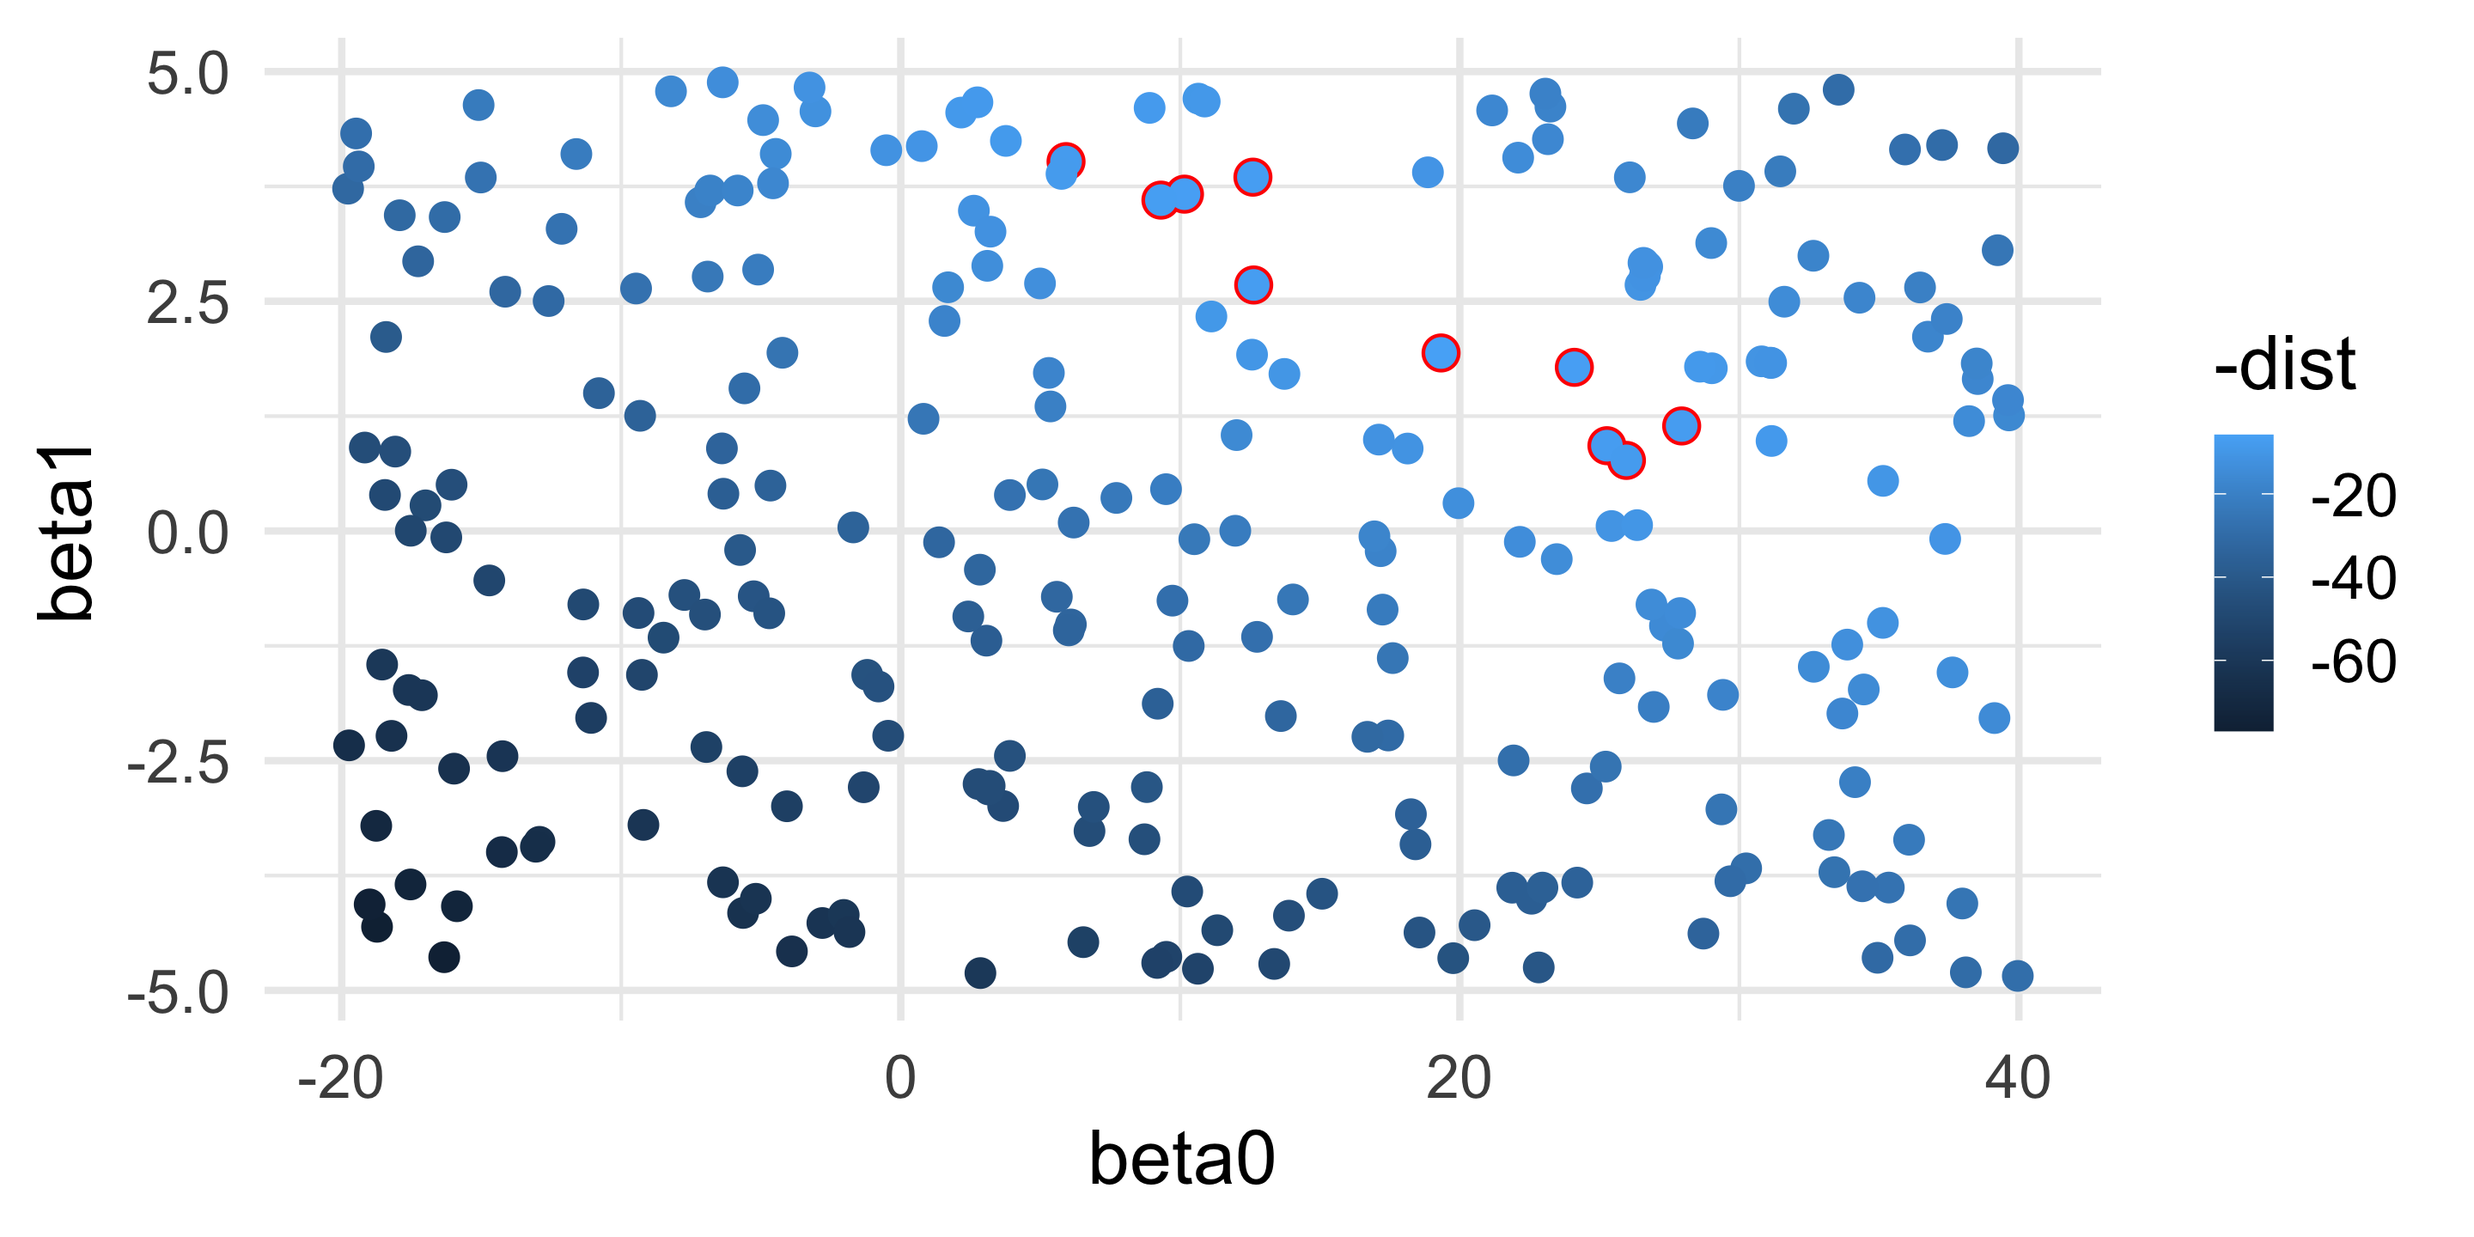
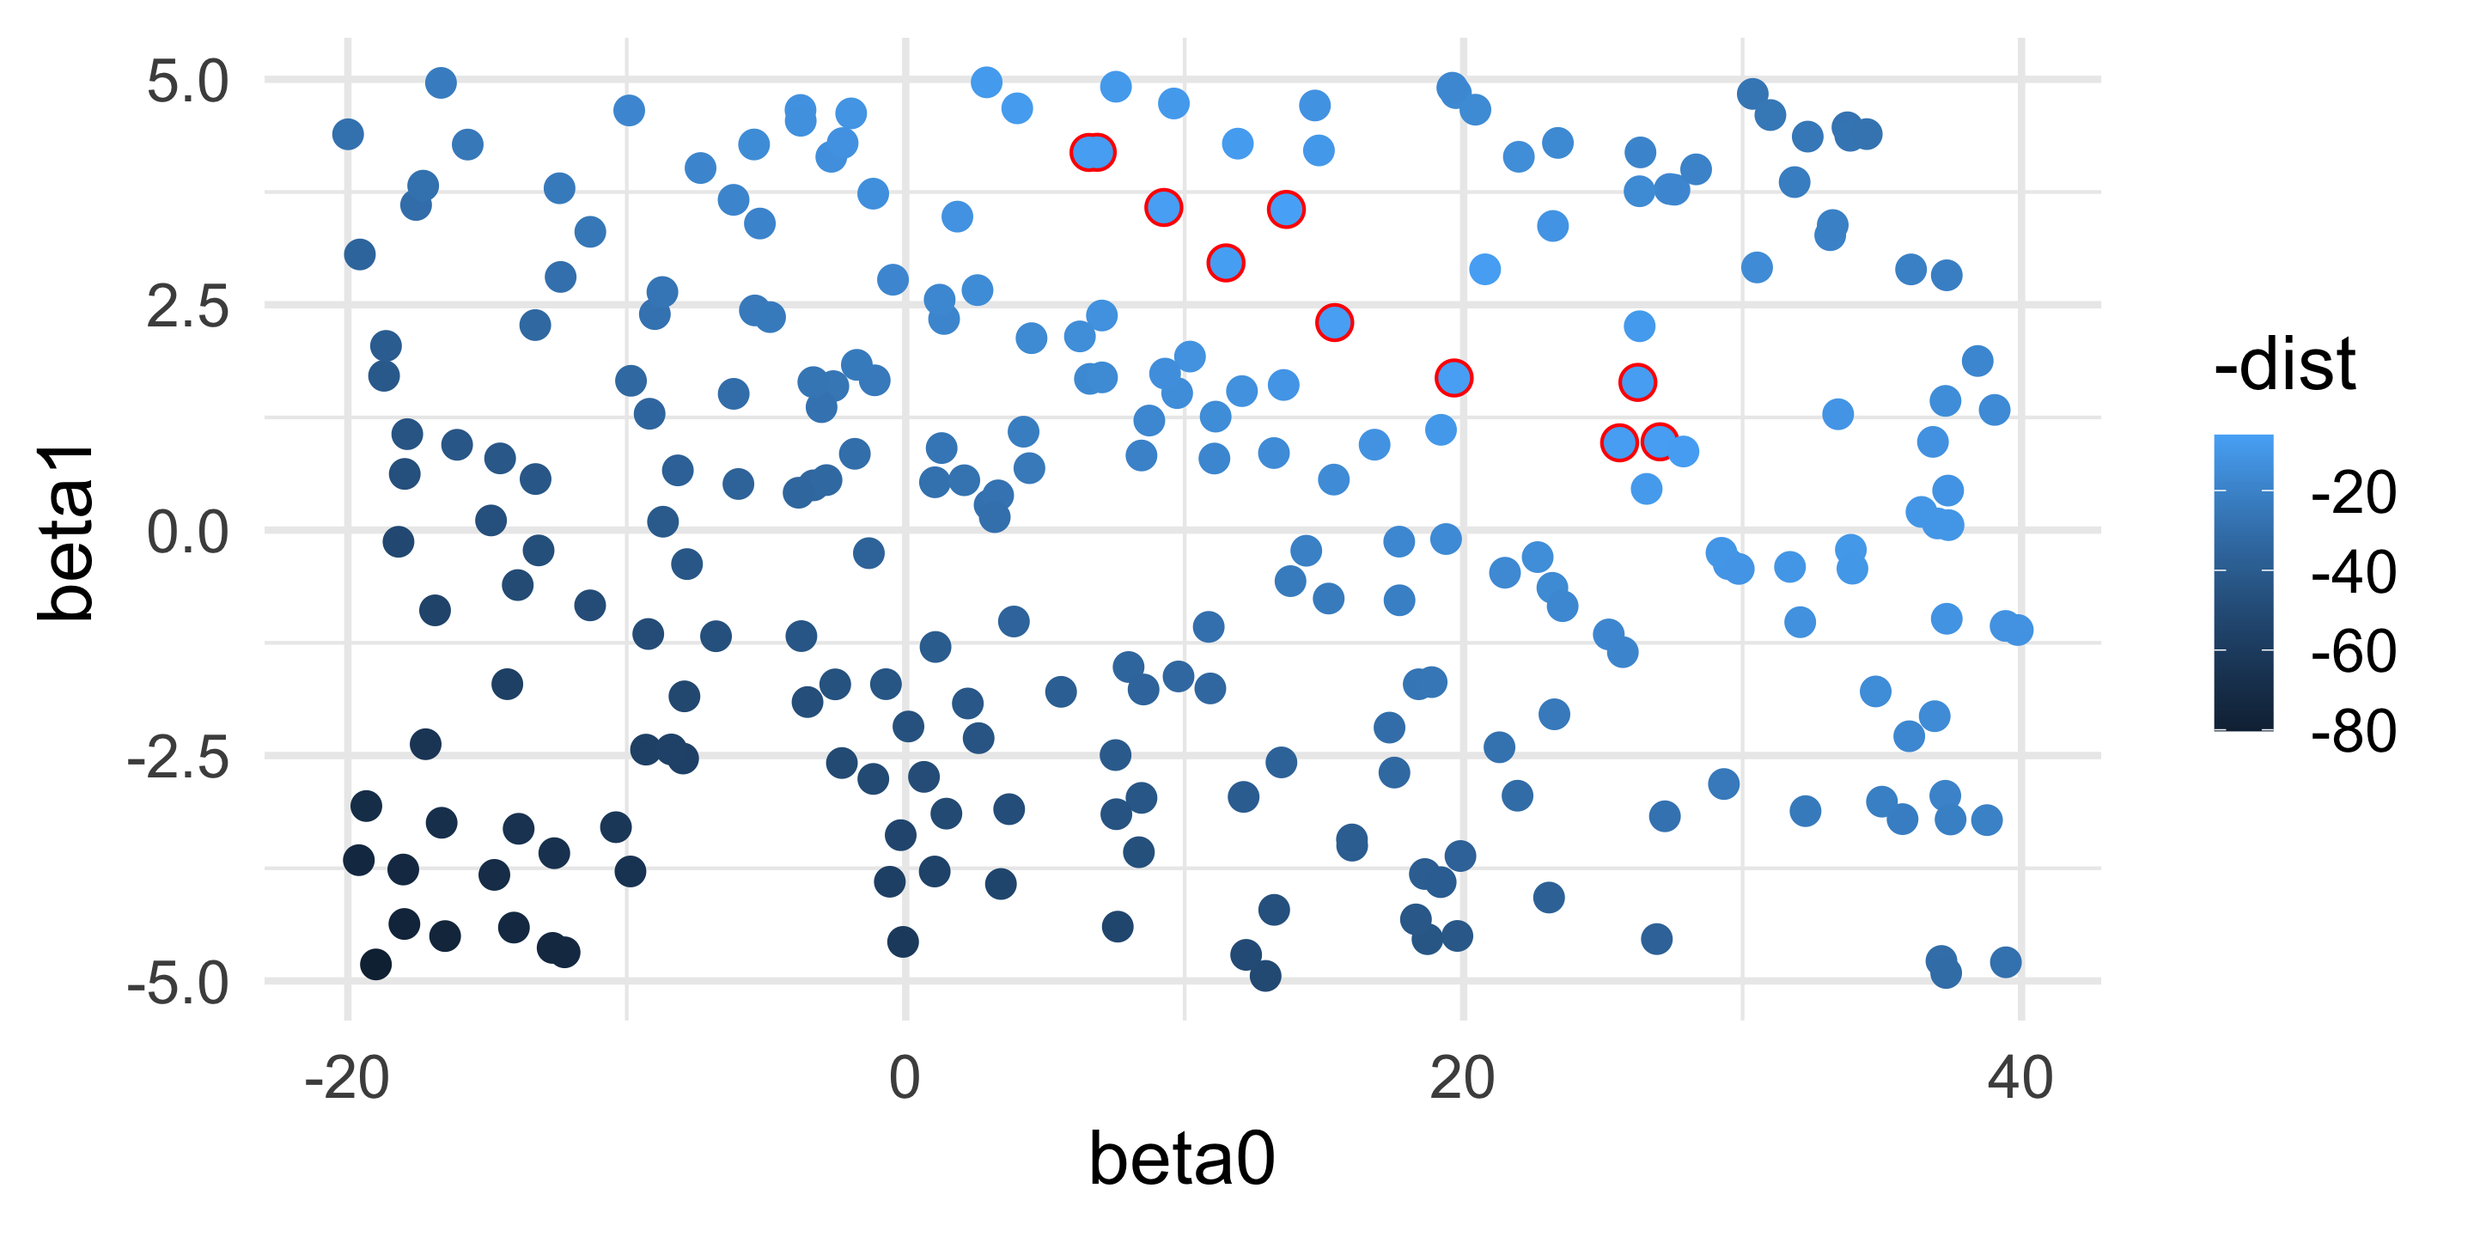
built for latest content

diff --git a/docs/slides.html b/docs/slides.html
@@ -241,13 +241,13 @@ y = \beta_0 + \beta_1 x_1 + \epsilon
 <span id="cb1-2"><a href=""></a>                      <span class="at">beta1 =</span> <span class="fu">runif</span>(<span class="dv">250</span>, <span class="sc">-</span><span class="dv">5</span>, <span class="dv">5</span>))</span>
 <span id="cb1-3"><a href=""></a><span class="fu">summary</span>( models )</span></code></pre></div><button title="Copy to Clipboard" class="code-copy-button"><i class="bi"></i></button></div>
 <div class="cell-output cell-output-stdout">
-<pre><code>     beta0             beta1         
- Min.   :-19.773   Min.   :-4.84231  
- 1st Qu.: -5.510   1st Qu.:-2.70423  
- Median :  9.249   Median :-0.08802  
- Mean   :  9.821   Mean   :-0.04163  
- 3rd Qu.: 26.276   3rd Qu.: 2.65174  
- Max.   : 39.960   Max.   : 4.88266  </code></pre>
+<pre><code>     beta0             beta1        
+ Min.   :-19.990   Min.   :-4.9443  
+ 1st Qu.: -3.823   1st Qu.:-2.3577  
+ Median :  8.173   Median : 0.3323  
+ Mean   :  9.132   Mean   : 0.1509  
+ 3rd Qu.: 23.197   3rd Qu.: 2.3919  
+ Max.   : 39.864   Max.   : 4.9665  </code></pre>
 </div>
 </div>
 </div><div class="column" style="width:50%;">
@@ -290,13 +290,13 @@ y = \beta_0 + \beta_1 x_1 + \epsilon
 <span id="cb4-7"><a href=""></a>}</span>
 <span id="cb4-8"><a href=""></a><span class="fu">head</span>( models )</span></code></pre></div><button title="Copy to Clipboard" class="code-copy-button"><i class="bi"></i></button></div>
 <div class="cell-output cell-output-stdout">
-<pre><code>       beta0     beta1      dist
-1  31.463680  3.913979 22.216943
-2  15.073163 -3.948088 43.076025
-3 -15.879758 -4.084086 72.853091
-4  10.648004  4.705156  9.286655
-5  -2.806101 -4.266595 61.501641
-6 -18.554233 -1.453793 59.666942</code></pre>
+<pre><code>      beta0      beta1      dist
+1 27.386682  3.7837410 17.607575
+2 32.334794  4.3645855 25.662348
+3  4.224087  1.0914296 22.557119
+4 17.700911 -0.7781071 21.397892
+5 -2.527105 -1.7106264 45.698780
+6 26.560598  0.4573602  8.557383</code></pre>
 </div>
 </div>
 </section>
@@ -917,35 +917,35 @@ y = \beta_0 + \beta_1 x_1 + \epsilon
 <tbody>
 <tr class="odd">
 <td style="text-align: left;">Ozone ~ Temp + Wind + Solar + 1 Random Variables</td>
-<td style="text-align: left;">0.6151</td>
+<td style="text-align: left;">0.6060</td>
 </tr>
 <tr class="even">
 <td style="text-align: left;">Ozone ~ Temp + Wind + Solar + 2 Random Variables</td>
-<td style="text-align: left;">0.6165</td>
+<td style="text-align: left;">0.6125</td>
 </tr>
 <tr class="odd">
 <td style="text-align: left;">Ozone ~ Temp + Wind + Solar + 3 Random Variables</td>
-<td style="text-align: left;">0.6192</td>
+<td style="text-align: left;">0.6140</td>
 </tr>
 <tr class="even">
 <td style="text-align: left;">Ozone ~ Temp + Wind + Solar + 4 Random Variables</td>
-<td style="text-align: left;">0.6267</td>
+<td style="text-align: left;">0.6143</td>
 </tr>
 <tr class="odd">
 <td style="text-align: left;">Ozone ~ Temp + Wind + Solar + 5 Random Variables</td>
-<td style="text-align: left;">0.6302</td>
+<td style="text-align: left;">0.6145</td>
 </tr>
 <tr class="even">
 <td style="text-align: left;">Ozone ~ Temp + Wind + Solar + 6 Random Variables</td>
-<td style="text-align: left;">0.6357</td>
+<td style="text-align: left;">0.6182</td>
 </tr>
 <tr class="odd">
 <td style="text-align: left;">Ozone ~ Temp + Wind + Solar + 7 Random Variables</td>
-<td style="text-align: left;">0.6358</td>
+<td style="text-align: left;">0.6242</td>
 </tr>
 <tr class="even">
 <td style="text-align: left;">Ozone ~ Temp + Wind + Solar + 8 Random Variables</td>
-<td style="text-align: left;">0.6378</td>
+<td style="text-align: left;">0.6253</td>
 </tr>
 </tbody>
 </table>
@@ -995,91 +995,91 @@ y = \beta_0 + \beta_1 x_1 + \epsilon
 <td style="text-align: left;">Ozone ~ Temp</td>
 <td style="text-align: right;">0.488</td>
 <td style="text-align: right;">1067.706</td>
-<td style="text-align: right;">69.627</td>
+<td style="text-align: right;">68.989</td>
 </tr>
 <tr class="even">
 <td style="text-align: left;">Ozone ~ Wind</td>
 <td style="text-align: right;">0.362</td>
 <td style="text-align: right;">1093.187</td>
-<td style="text-align: right;">95.108</td>
+<td style="text-align: right;">94.470</td>
 </tr>
 <tr class="odd">
 <td style="text-align: left;">Ozone ~ Solar</td>
 <td style="text-align: right;">0.121</td>
 <td style="text-align: right;">1083.714</td>
-<td style="text-align: right;">85.635</td>
+<td style="text-align: right;">84.997</td>
 </tr>
 <tr class="even">
 <td style="text-align: left;">Ozone ~ Temp + Wind</td>
 <td style="text-align: right;">0.569</td>
 <td style="text-align: right;">1049.741</td>
-<td style="text-align: right;">51.662</td>
+<td style="text-align: right;">51.024</td>
 </tr>
 <tr class="odd">
 <td style="text-align: left;">Ozone ~ Temp + Solar</td>
 <td style="text-align: right;">0.510</td>
 <td style="text-align: right;">1020.820</td>
-<td style="text-align: right;">22.740</td>
+<td style="text-align: right;">22.103</td>
 </tr>
 <tr class="even">
 <td style="text-align: left;">Ozone ~ Wind + Solar</td>
 <td style="text-align: right;">0.449</td>
 <td style="text-align: right;">1033.816</td>
-<td style="text-align: right;">35.736</td>
+<td style="text-align: right;">35.098</td>
 </tr>
 <tr class="odd">
 <td style="text-align: left;">Ozone ~ Temp + Wind + Solar</td>
 <td style="text-align: right;">0.606</td>
 <td style="text-align: right;">998.717</td>
-<td style="text-align: right;">0.638</td>
+<td style="text-align: right;">0.000</td>
 </tr>
 <tr class="even">
 <td style="text-align: left;">Ozone ~ Temp + Wind + Solar + 1 Random Variables</td>
-<td style="text-align: right;">0.615</td>
-<td style="text-align: right;">998.079</td>
-<td style="text-align: right;">0.000</td>
+<td style="text-align: right;">0.606</td>
+<td style="text-align: right;">1000.701</td>
+<td style="text-align: right;">1.984</td>
 </tr>
 <tr class="odd">
 <td style="text-align: left;">Ozone ~ Temp + Wind + Solar + 2 Random Variables</td>
-<td style="text-align: right;">0.617</td>
-<td style="text-align: right;">999.678</td>
-<td style="text-align: right;">1.598</td>
+<td style="text-align: right;">0.612</td>
+<td style="text-align: right;">1000.842</td>
+<td style="text-align: right;">2.125</td>
 </tr>
 <tr class="even">
 <td style="text-align: left;">Ozone ~ Temp + Wind + Solar + 3 Random Variables</td>
-<td style="text-align: right;">0.619</td>
-<td style="text-align: right;">1000.894</td>
-<td style="text-align: right;">2.814</td>
+<td style="text-align: right;">0.614</td>
+<td style="text-align: right;">1002.405</td>
+<td style="text-align: right;">3.688</td>
 </tr>
 <tr class="odd">
 <td style="text-align: left;">Ozone ~ Temp + Wind + Solar + 4 Random Variables</td>
-<td style="text-align: right;">0.627</td>
-<td style="text-align: right;">1000.688</td>
-<td style="text-align: right;">2.608</td>
+<td style="text-align: right;">0.614</td>
+<td style="text-align: right;">1004.316</td>
+<td style="text-align: right;">5.599</td>
 </tr>
 <tr class="even">
 <td style="text-align: left;">Ozone ~ Temp + Wind + Solar + 5 Random Variables</td>
-<td style="text-align: right;">0.630</td>
-<td style="text-align: right;">1001.637</td>
-<td style="text-align: right;">3.558</td>
+<td style="text-align: right;">0.615</td>
+<td style="text-align: right;">1006.258</td>
+<td style="text-align: right;">7.541</td>
 </tr>
 <tr class="odd">
 <td style="text-align: left;">Ozone ~ Temp + Wind + Solar + 6 Random Variables</td>
-<td style="text-align: right;">0.636</td>
-<td style="text-align: right;">1001.980</td>
-<td style="text-align: right;">3.901</td>
+<td style="text-align: right;">0.618</td>
+<td style="text-align: right;">1007.183</td>
+<td style="text-align: right;">8.465</td>
 </tr>
 <tr class="even">
 <td style="text-align: left;">Ozone ~ Temp + Wind + Solar + 7 Random Variables</td>
-<td style="text-align: right;">0.636</td>
-<td style="text-align: right;">1003.966</td>
-<td style="text-align: right;">5.887</td>
+<td style="text-align: right;">0.624</td>
+<td style="text-align: right;">1007.442</td>
+<td style="text-align: right;">8.725</td>
 </tr>
 <tr class="odd">
 <td style="text-align: left;">Ozone ~ Temp + Wind + Solar + 8 Random Variables</td>
-<td style="text-align: right;">0.638</td>
-<td style="text-align: right;">1005.357</td>
-<td style="text-align: right;">7.278</td>
+<td style="text-align: right;">0.625</td>
+<td style="text-align: right;">1009.099</td>
+<td style="text-align: right;">10.382</td>
 </tr>
 </tbody>
 </table>

diff --git a/docs/narrative.html b/docs/narrative.html
@@ -182,13 +182,13 @@ y_{ij} = \beta_0 + \beta_1 x_{i} + \epsilon_j
 <span id="cb3-2"><a href="#cb3-2" aria-hidden="true" tabindex="-1"></a>                      <span class="at">beta1 =</span> <span class="fu">runif</span>(<span class="dv">250</span>, <span class="sc">-</span><span class="dv">5</span>, <span class="dv">5</span>))</span>
 <span id="cb3-3"><a href="#cb3-3" aria-hidden="true" tabindex="-1"></a><span class="fu">summary</span>( models )</span></code></pre></div><button title="Copy to Clipboard" class="code-copy-button"><i class="bi"></i></button></div>
 <div class="cell-output cell-output-stdout">
-<pre><code>     beta0             beta1        
- Min.   :-19.953   Min.   :-4.9602  
- 1st Qu.: -7.031   1st Qu.:-2.3298  
- Median :  8.088   Median : 0.4689  
- Mean   :  8.150   Mean   : 0.2012  
- 3rd Qu.: 21.905   3rd Qu.: 2.6805  
- Max.   : 39.975   Max.   : 4.9269  </code></pre>
+<pre><code>     beta0            beta1         
+ Min.   :-19.95   Min.   :-4.98809  
+ 1st Qu.: -3.69   1st Qu.:-2.57066  
+ Median : 10.85   Median : 0.03923  
+ Mean   : 10.98   Mean   :-0.02898  
+ 3rd Qu.: 25.55   3rd Qu.: 2.39287  
+ Max.   : 39.38   Max.   : 4.93844  </code></pre>
 </div>
 </div>
 <p>We can plot these and the original data and all these randomly defined models.</p>
@@ -239,13 +239,13 @@ y_{ij} = \beta_0 + \beta_1 x_{i} + \epsilon_j
 <span id="cb7-7"><a href="#cb7-7" aria-hidden="true" tabindex="-1"></a>}</span>
 <span id="cb7-8"><a href="#cb7-8" aria-hidden="true" tabindex="-1"></a><span class="fu">head</span>( models )</span></code></pre></div><button title="Copy to Clipboard" class="code-copy-button"><i class="bi"></i></button></div>
 <div class="cell-output cell-output-stdout">
-<pre><code>      beta0      beta1      dist
-1 -4.362797  2.9880642 20.361836
-2 19.003302 -0.1271035 16.430088
-3 19.985645  2.3187257  5.410366
-4 39.610713  0.6104112 13.692096
-5 -5.820428 -4.3170897 64.659722
-6 25.573447  2.8728038 11.007278</code></pre>
+<pre><code>      beta0       beta1      dist
+1 20.725622  2.81805414  6.932430
+2  2.626638  0.04242105 30.255661
+3 36.145116 -4.94734911 31.933431
+4  7.930468  4.64642158  8.016969
+5  5.496967 -4.09153359 52.668300
+6 32.895617  1.75215990 12.274369</code></pre>
 </div>
 </div>
 <p>If we look through these models, we can see which are better than others by sorting in increasing squared distance.</p>
@@ -862,42 +862,42 @@ y = \beta_0 + \beta_1 x_1 + \beta_2 x_2 + \beta_3 x_3 + \epsilon
 </tr>
 <tr class="even">
 <td style="text-align: left;">Ozone ~ Temp + Wind + Solar + 1 Random Variables</td>
-<td style="text-align: right;">0.6061</td>
+<td style="text-align: right;">0.6082</td>
 <td style="text-align: right;">0e+00</td>
 </tr>
 <tr class="odd">
 <td style="text-align: left;">Ozone ~ Temp + Wind + Solar + 2 Random Variables</td>
-<td style="text-align: right;">0.6103</td>
+<td style="text-align: right;">0.6098</td>
 <td style="text-align: right;">0e+00</td>
 </tr>
 <tr class="even">
 <td style="text-align: left;">Ozone ~ Temp + Wind + Solar + 3 Random Variables</td>
-<td style="text-align: right;">0.6107</td>
+<td style="text-align: right;">0.6109</td>
 <td style="text-align: right;">0e+00</td>
 </tr>
 <tr class="odd">
 <td style="text-align: left;">Ozone ~ Temp + Wind + Solar + 4 Random Variables</td>
-<td style="text-align: right;">0.6184</td>
+<td style="text-align: right;">0.6111</td>
 <td style="text-align: right;">0e+00</td>
 </tr>
 <tr class="even">
 <td style="text-align: left;">Ozone ~ Temp + Wind + Solar + 5 Random Variables</td>
-<td style="text-align: right;">0.6214</td>
+<td style="text-align: right;">0.6200</td>
 <td style="text-align: right;">0e+00</td>
 </tr>
 <tr class="odd">
 <td style="text-align: left;">Ozone ~ Temp + Wind + Solar + 6 Random Variables</td>
-<td style="text-align: right;">0.6234</td>
+<td style="text-align: right;">0.6207</td>
 <td style="text-align: right;">0e+00</td>
 </tr>
 <tr class="even">
 <td style="text-align: left;">Ozone ~ Temp + Wind + Solar + 7 Random Variables</td>
-<td style="text-align: right;">0.6276</td>
+<td style="text-align: right;">0.6290</td>
 <td style="text-align: right;">0e+00</td>
 </tr>
 <tr class="odd">
 <td style="text-align: left;">Ozone ~ Temp + Wind + Solar + 8 Random Variables</td>
-<td style="text-align: right;">0.6284</td>
+<td style="text-align: right;">0.6324</td>
 <td style="text-align: right;">0e+00</td>
 </tr>
 </tbody>
@@ -990,51 +990,51 @@ AIC = -2 \ln L + 2p
 </tr>
 <tr class="even">
 <td style="text-align: left;">Ozone ~ Temp + Wind + Solar + 1 Random Variables</td>
-<td style="text-align: right;">0.606</td>
-<td style="text-align: right;">1000.646</td>
-<td style="text-align: right;">1.929</td>
+<td style="text-align: right;">0.608</td>
+<td style="text-align: right;">1000.068</td>
+<td style="text-align: right;">1.351</td>
 </tr>
 <tr class="odd">
 <td style="text-align: left;">Ozone ~ Temp + Wind + Solar + 2 Random Variables</td>
 <td style="text-align: right;">0.610</td>
-<td style="text-align: right;">1001.467</td>
-<td style="text-align: right;">2.750</td>
+<td style="text-align: right;">1001.605</td>
+<td style="text-align: right;">2.888</td>
 </tr>
 <tr class="even">
 <td style="text-align: left;">Ozone ~ Temp + Wind + Solar + 3 Random Variables</td>
 <td style="text-align: right;">0.611</td>
-<td style="text-align: right;">1003.364</td>
-<td style="text-align: right;">4.647</td>
+<td style="text-align: right;">1003.297</td>
+<td style="text-align: right;">4.580</td>
 </tr>
 <tr class="odd">
 <td style="text-align: left;">Ozone ~ Temp + Wind + Solar + 4 Random Variables</td>
-<td style="text-align: right;">0.618</td>
-<td style="text-align: right;">1003.133</td>
-<td style="text-align: right;">4.416</td>
+<td style="text-align: right;">0.611</td>
+<td style="text-align: right;">1005.249</td>
+<td style="text-align: right;">6.531</td>
 </tr>
 <tr class="even">
 <td style="text-align: left;">Ozone ~ Temp + Wind + Solar + 5 Random Variables</td>
-<td style="text-align: right;">0.621</td>
-<td style="text-align: right;">1004.262</td>
-<td style="text-align: right;">5.544</td>
+<td style="text-align: right;">0.620</td>
+<td style="text-align: right;">1004.668</td>
+<td style="text-align: right;">5.950</td>
 </tr>
 <tr class="odd">
 <td style="text-align: left;">Ozone ~ Temp + Wind + Solar + 6 Random Variables</td>
-<td style="text-align: right;">0.623</td>
-<td style="text-align: right;">1005.683</td>
-<td style="text-align: right;">6.965</td>
+<td style="text-align: right;">0.621</td>
+<td style="text-align: right;">1006.457</td>
+<td style="text-align: right;">7.740</td>
 </tr>
 <tr class="even">
 <td style="text-align: left;">Ozone ~ Temp + Wind + Solar + 7 Random Variables</td>
-<td style="text-align: right;">0.628</td>
-<td style="text-align: right;">1006.432</td>
-<td style="text-align: right;">7.715</td>
+<td style="text-align: right;">0.629</td>
+<td style="text-align: right;">1005.999</td>
+<td style="text-align: right;">7.282</td>
 </tr>
 <tr class="odd">
 <td style="text-align: left;">Ozone ~ Temp + Wind + Solar + 8 Random Variables</td>
-<td style="text-align: right;">0.628</td>
-<td style="text-align: right;">1008.191</td>
-<td style="text-align: right;">9.474</td>
+<td style="text-align: right;">0.632</td>
+<td style="text-align: right;">1006.995</td>
+<td style="text-align: right;">8.278</td>
 </tr>
 </tbody>
 </table>
